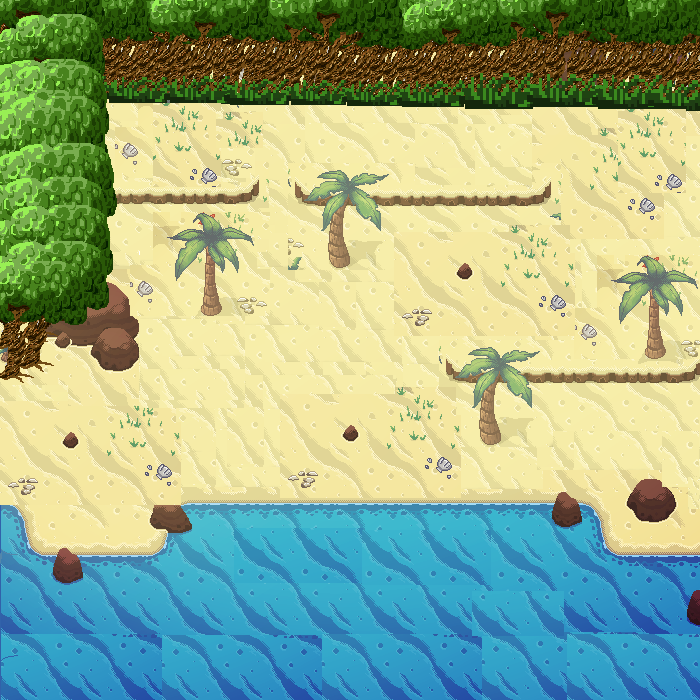
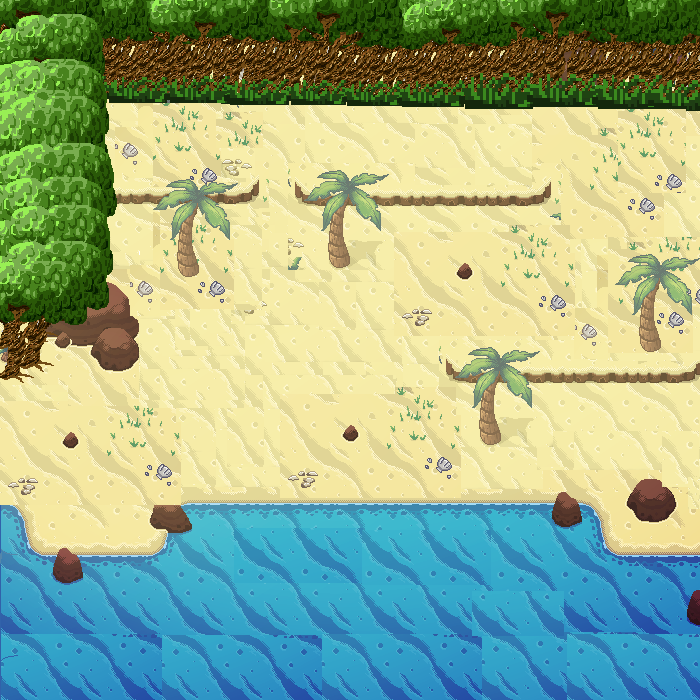
items

Changed region(s): [[0.21, 0.24, 0.39, 0.48], [0.87, 0.33, 1.0, 0.51]]

diff --git a/projeto/Praia.js b/projeto/Praia.js
@@ -31,6 +31,34 @@ class Praia extends Phaser.Scene {
         this.text = this.add.text(configTimer.posX, configTimer.y, 'Tempo: '+ this.tempo, { font: configTimer.font, fill: configTimer.color});
 
 
+        this.palmeira1 = this.physics.add.sprite(185, 230, 'palmeirabound');
+        this.palmeira1.setCollideWorldBounds(true);
+        this.palmeira1.body.width = 11;
+        this.palmeira1.body.height = 10;
+        this.palmeira1.setSize(this.palmeira1.body.width, this.palmeira1.height, true);
+        this.palmeira1.setImmovable();
+
+        this.palmeira2 = this.physics.add.sprite(335, 220, 'palmeirabound');
+        this.palmeira2.setCollideWorldBounds(true);
+        this.palmeira2.body.width = 11;
+        this.palmeira2.body.height = 10;
+        this.palmeira2.setSize(this.palmeira2.body.width, this.palmeira2.height, true);
+        this.palmeira2.setImmovable();
+
+        this.palmeira3 = this.physics.add.sprite(650, 305, 'palmeirabound');
+        this.palmeira3.setCollideWorldBounds(true);
+        this.palmeira3.body.width = 11;
+        this.palmeira3.body.height = 10;
+        this.palmeira3.setSize(this.palmeira3.body.width, this.palmeira3.height, true);
+        this.palmeira3.setImmovable();
+
+        this.palmeira4 = this.physics.add.sprite(485, 405, 'palmeirabound');
+        this.palmeira4.setCollideWorldBounds(true);
+        this.palmeira4.body.width = 11;
+        this.palmeira4.body.height = 10;
+        this.palmeira4.setSize(this.palmeira4.body.width, this.palmeira4.height, true);
+        this.palmeira4.setImmovable();
+
         this.player=this.physics.add.sprite(config.width/2,config.height/2,'boneco');
         this.player.setCollideWorldBounds(true);
         this.player.setBounce(0.2);
@@ -47,8 +75,13 @@ class Praia extends Phaser.Scene {
         this.setaR = this.physics.add.staticGroup();
         this.setaR.create(670,400,'setaRight');
         this.setaL = this.physics.add.staticGroup();
-        this.setaL.create(150,215,'setaLeft');
+        this.setaL.create(150,140,'setaLeft');
 
+
+        this.physics.add.collider(this.player, this.palmeira1);
+        this.physics.add.collider(this.player, this.palmeira2);
+        this.physics.add.collider(this.player, this.palmeira3);
+        this.physics.add.collider(this.player, this.palmeira4);
         this.physics.add.collider(this.player, this.setaL,()=> {
             this.scene.start("entradaCaverna",{firstTime:this.firstTime,listaPaus:this.listaPaus,nameuser:this.nameuser,listaPerguntas:this.listaPerguntas,tempo:this.tempoAtual, posX: 570, posY: 400});
         });

diff --git a/projeto/Load.js b/projeto/Load.js
@@ -76,6 +76,15 @@ class Load extends Phaser.Scene {
         this.load.image('folhasbounds', './resources/folhasbounds.png');
         this.load.image('arvore', './resources/arvore top.png');
         this.load.image('cliff', './resources/cliff.png');
+        this.load.image('palmeira', './resources/palmeira.png');
+        this.load.image('pedrapraia', './resources/pedrapraia.png');
+        this.load.image('palmeirabound', './resources/palmeirabound.png');
+
+        this.load.spritesheet('rato', './resources/rato.png', {
+            frameWidth: 40,
+            frameHeight: 39
+        });
+
         this.load.spritesheet('morcego', './resources/bat.png', {
             frameWidth: 192,
             frameHeight: 192
@@ -108,6 +117,12 @@ class Load extends Phaser.Scene {
 
         this.add.text(20,20,"Carregando o jogo...");
         this.anims.create({
+           key: "rat",
+           frames: this.anims.generateFrameNumbers("rato"),
+           frameRate: 10,
+            repeat:-1
+        });
+        this.anims.create({
             key: "bat",
             frames: this.anims.generateFrameNumbers("morcego"),
             frameRate: 10,
@@ -122,19 +137,19 @@ class Load extends Phaser.Scene {
         this.anims.create({
             key: "left",
             frames: this.anims.generateFrameNumbers("boneco", {start:0, end:1}),
-            frameRate: 5,
+            frameRate: 10,
             repeat:-1
         });
         this.anims.create({
             key: "right",
             frames: this.anims.generateFrameNumbers("boneco", {start:2, end:3}),
-            frameRate: 5,
+            frameRate: 10,
             repeat:-1
         });
         this.anims.create({
             key: "back",
             frames: this.anims.generateFrameNumbers("boneco", {start:4, end:6}),
-            frameRate: 5,
+            frameRate: 10,
             repeat:-1
         });
         this.anims.create({

diff --git a/projeto/Fim.js b/projeto/Fim.js
@@ -35,6 +35,20 @@ class Fim extends Phaser.Scene {
 
         this.textoEscrito = this.add.text(250,510,texto,{font: "18px Helvetica", fill: 'black'});
 
+        this.jangadaEstragada = this.physics.add.sprite(420, 520, 'jangada');
+        this.jangadaEstragada.body.width = 50;
+        this.jangadaEstragada.body.height = 50;
+        this.jangadaEstragada.body.setSize(this.jangadaEstragada.body.width, this.jangadaEstragada.body.height, true);
+        this.jangadaEstragada.setScale(0.5);
+        this.jangadaEstragada.setImmovable();
+        // this.physics.add.overlap(this.player, this.jangada, this.handleJangada, null, this);
+
+        this.jangadaFinal = this.physics.add.sprite(35, 400, 'jangadaFinal');
+        this.jangadaFinal.body.width = 50;
+        this.jangadaFinal.body.height = 50;
+        this.jangadaFinal.body.setSize(this.jangadaFinal.body.width, this.jangadaFinal.body.height, true);
+        this.jangadaFinal.visible = false;
+
         this.player=this.physics.add.sprite(config.width/2,config.height/2,'boneco');
         this.player.setCollideWorldBounds(true);
         this.player.setBounce(0.2);
@@ -45,12 +59,6 @@ class Fim extends Phaser.Scene {
         this.player.x = this.posX;
         this.player.y = this.posY;
 
-        this.jangadaEstragada = this.physics.add.image(420, 460, 'jangada');
-        this.jangadaEstragada.setScale(0.5)
-        // this.physics.add.overlap(this.player, this.jangada, this.handleJangada, null, this);
-
-        this.jangadaFinal = this.physics.add.image(35, 400, 'jangadaFinal');
-        this.jangadaFinal.visible = false;
 
         this.cursors = this.input.keyboard.createCursorKeys();
         this.pause = this.input.keyboard.addKey(Phaser.Input.Keyboard.KeyCodes.ESC);
